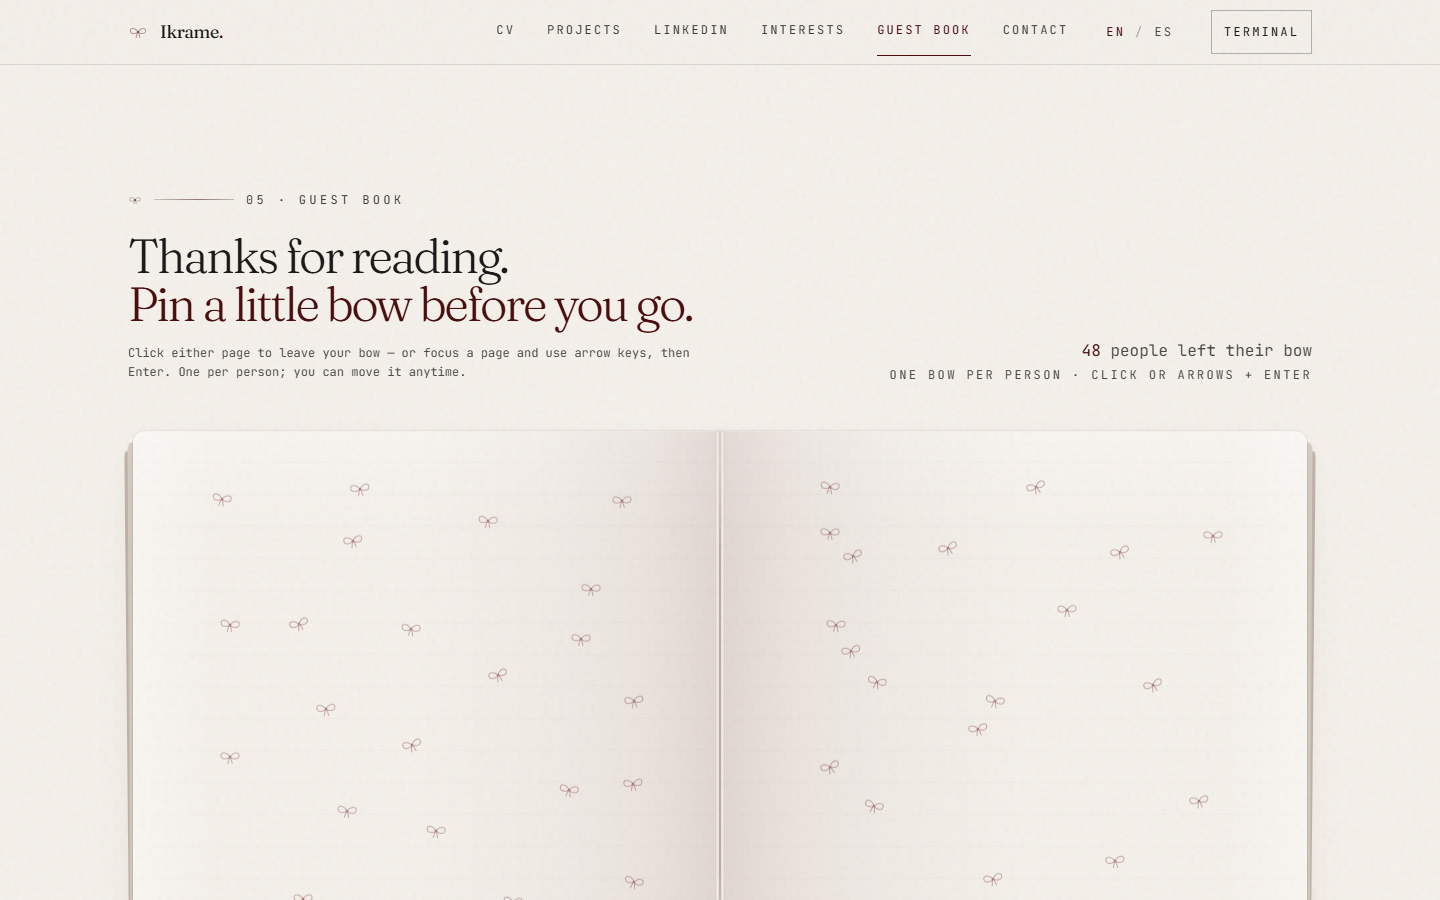
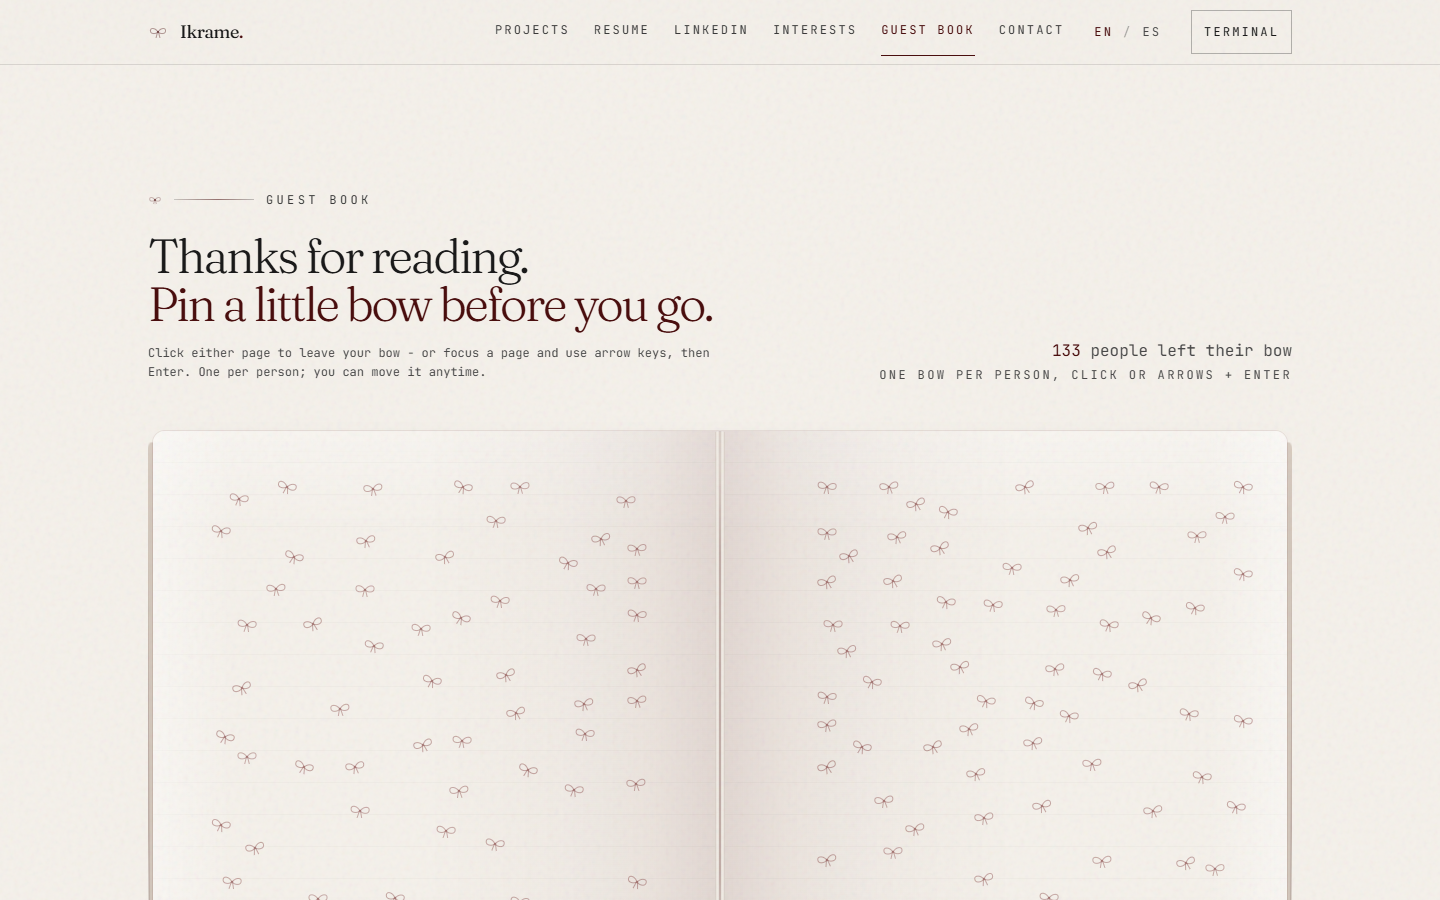
Refresh README copy and portfolio screenshots.

diff --git a/README.md b/README.md
@@ -2,7 +2,7 @@
 
 [![Live Site](https://img.shields.io/badge/Live_Site-000000?style=for-the-badge&logo=vercel&logoColor=white)](https://ikrame.dev/)
 
-**Personal portfolio site** — resume and projects up front, cream paper aesthetic, guest book, contact form, and a CLI easter egg in the corner.
+**Personal portfolio site** — English and Spanish, cream paper aesthetic, guest book, contact form, and a CLI easter egg in the corner.
 
 Portfolio project (v0.1.0): React SPA deployed on Vercel. Guest book syncs via Upstash; contact form uses Resend.
 
@@ -18,9 +18,11 @@ Portfolio project (v0.1.0): React SPA deployed on Vercel. Guest book syncs via U
 
 ## Highlights
 
-- **Hero + resume** — role, stack, and experience above the fold
-- **Projects** — featured work with Mermaid architecture diagrams, live demos, and GitHub links
-- **Engineering** — component-based sections, semantic HTML, accessible patterns, and documented project structure
+- **English and Spanish** — language toggle in the nav; same layout, local copy
+- **Hero** — role, positioning, and downloads for the CV and cover letter (EN/ES PDFs)
+- **Projects** — three lanes: Python backends (ReckonFlow, Validata), published tools (PyPI CLI and skills.sh localization skill), and other work
+- **Experience** — timeline, education, and languages on the page
+- **LinkedIn notes** — selected posts and recommendations
 - **Guest book** — shared bows via Upstash Redis on Vercel; localStorage fallback on localhost
 - **Contact** — Resend-powered form with rate limiting
 - **Analytics** — optional GoatCounter (privacy-friendly, no cookies); set `VITE_GOATCOUNTER_CODE`
@@ -31,7 +33,9 @@ Portfolio project (v0.1.0): React SPA deployed on Vercel. Guest book syncs via U
 
 ![Hero section](web/screenshots/hero.png)
 
-![Resume and projects](web/screenshots/cv-projects.png)
+![Projects](web/screenshots/projects.png)
+
+![Experience](web/screenshots/cv.png)
 
 ![Interests](web/screenshots/interests-vault.png)
 
@@ -59,6 +63,8 @@ Open [http://localhost:5173](http://localhost:5173). Guest book API routes only 
 | `npm run build` | Production build |
 | `npm run preview` | Preview production build |
 | `npm run capture:readme` | Regenerate README screenshots (Playwright) |
+| `npm run cv:pdf` | Render CV HTML to PDF |
+| `npm run cover-letter:pdf` | Render cover letters to PDF |
 
 **Vercel deploy:** set root directory to **`web/`**.
 
@@ -84,12 +90,13 @@ Never commit `.env` files or API keys.
 ```
 web/
 ├── src/
-│   ├── components/     # UI sections (Hero, CV, Projects, CLI…)
-│   ├── data/           # portfolio copy, assets, stack icons
+│   ├── components/     # UI sections (Hero, Projects, CV, LinkedIn, CLI…)
+│   ├── data/           # locales, assets, stack icons
+│   ├── i18n/           # language switch and UI strings
 │   └── lib/            # guest book API, theme, storage
 ├── api/                # Vercel serverless (bows, contact)
-├── public/images/      # Project & profile assets
-└── scripts/            # README screenshot capture
+├── public/             # CV and cover-letter PDFs, images, print HTML
+└── scripts/            # README shots, CV and cover-letter PDF render
 docs/                   # Design notes (not deployed)
 ```
 
@@ -98,6 +105,8 @@ docs/                   # Design notes (not deployed)
 ## Documentation
 
 Internal build notes live in [`docs/`](docs/) — design system, component map, workflow.
+
+Print artefacts live under `web/public/cv/` and `web/public/cover-letter/` (HTML + CSS). The PDFs are generated with Playwright.
 
 ## Regenerate screenshots
 
